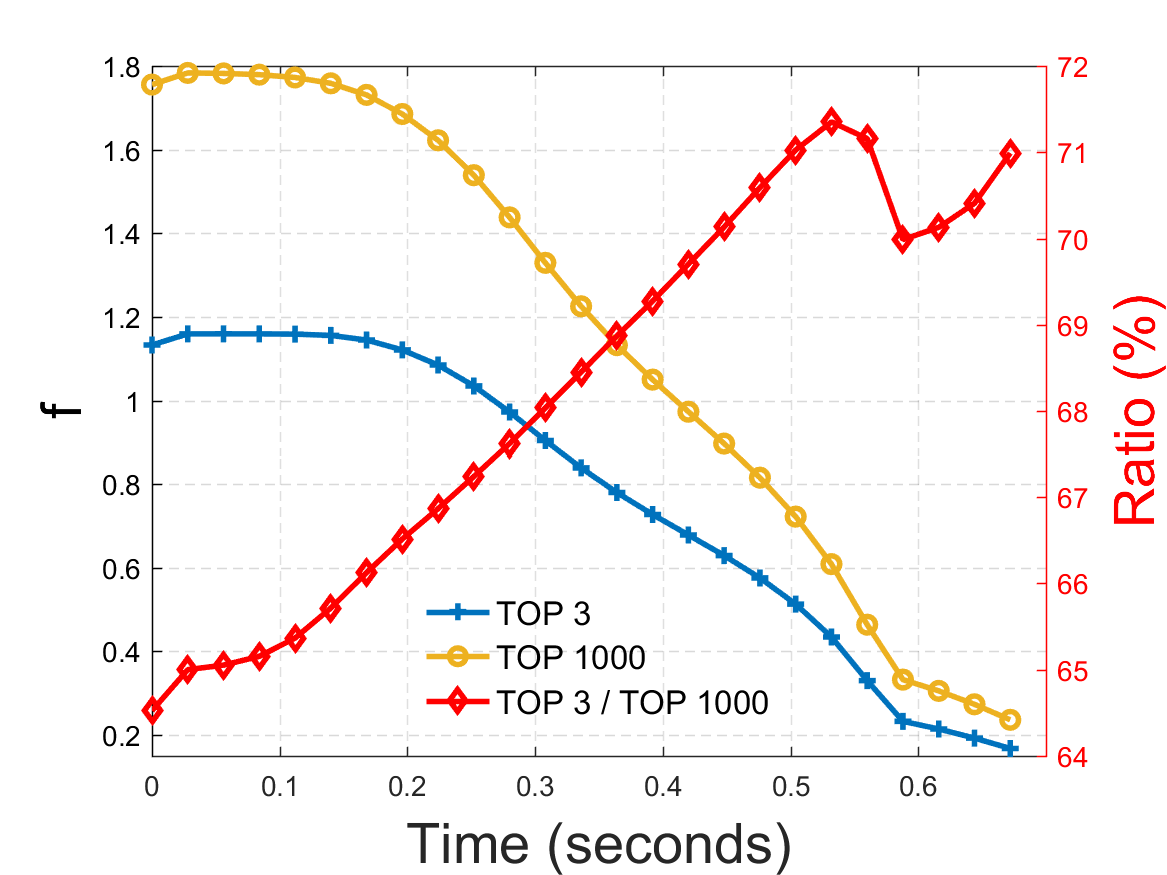
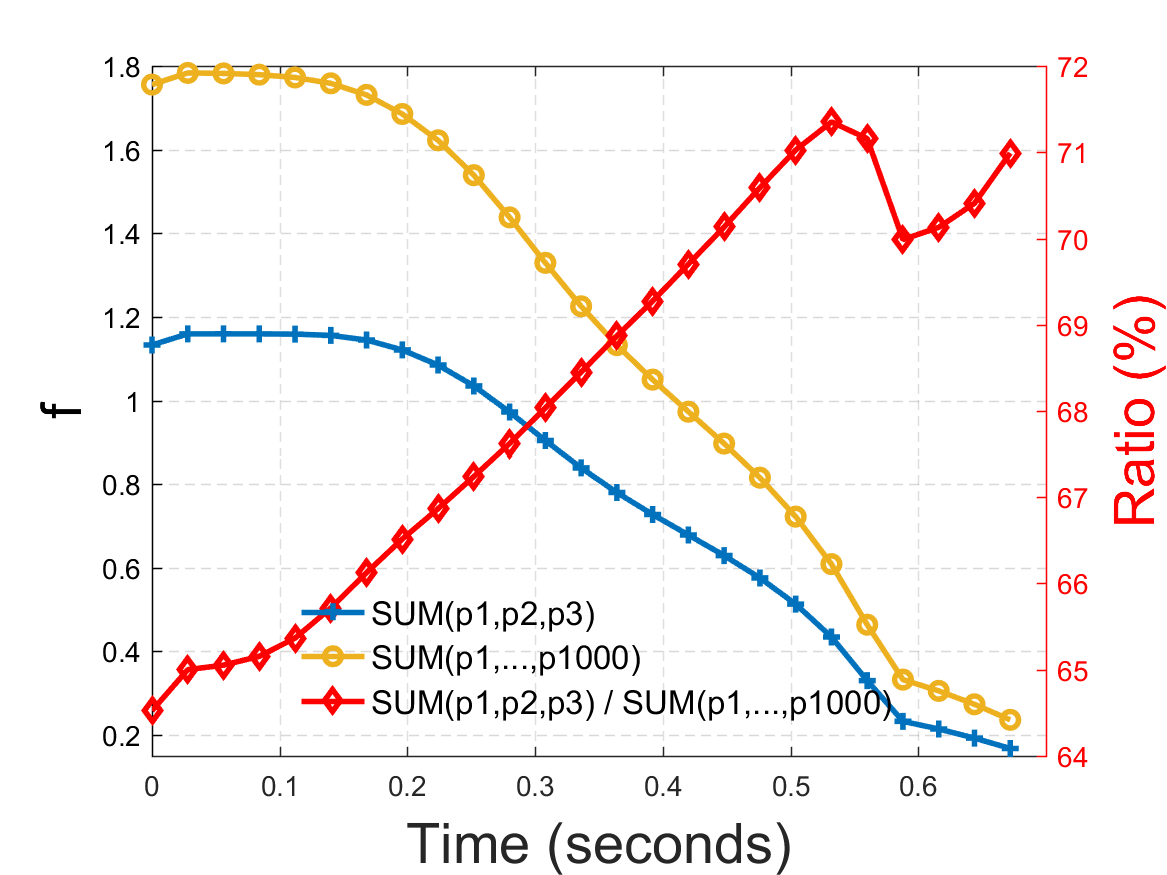
minor

Changed region(s): [[0.2468, 0.6789, 0.7712, 0.8331]]

diff --git a/theory/misc/Merchant_f/fix_tf_vary_t0/Merchan_f_plot_v1.m b/theory/misc/Merchant_f/fix_tf_vary_t0/Merchan_f_plot_v1.m
@@ -93,7 +93,7 @@ ylabel('Ratio (%)', 'FontSize', 20);
 %% global settings
 grid on;
 xlim([0, tau*end_t2]);
-leg_h = legend([p1; p2; p3], 'TOP 3', 'TOP 1000', 'TOP 3 / TOP 1000');
+leg_h = legend([p1; p2; p3], 'SUM(p1,p2,p3)', 'SUM(p1,...,p1000)', 'SUM(p1,p2,p3) / SUM(p1,...,p1000)');
 set(leg_h, 'FontSize', 12, 'Box', 'off');
 set(leg_h, 'Location', 'South')
 
